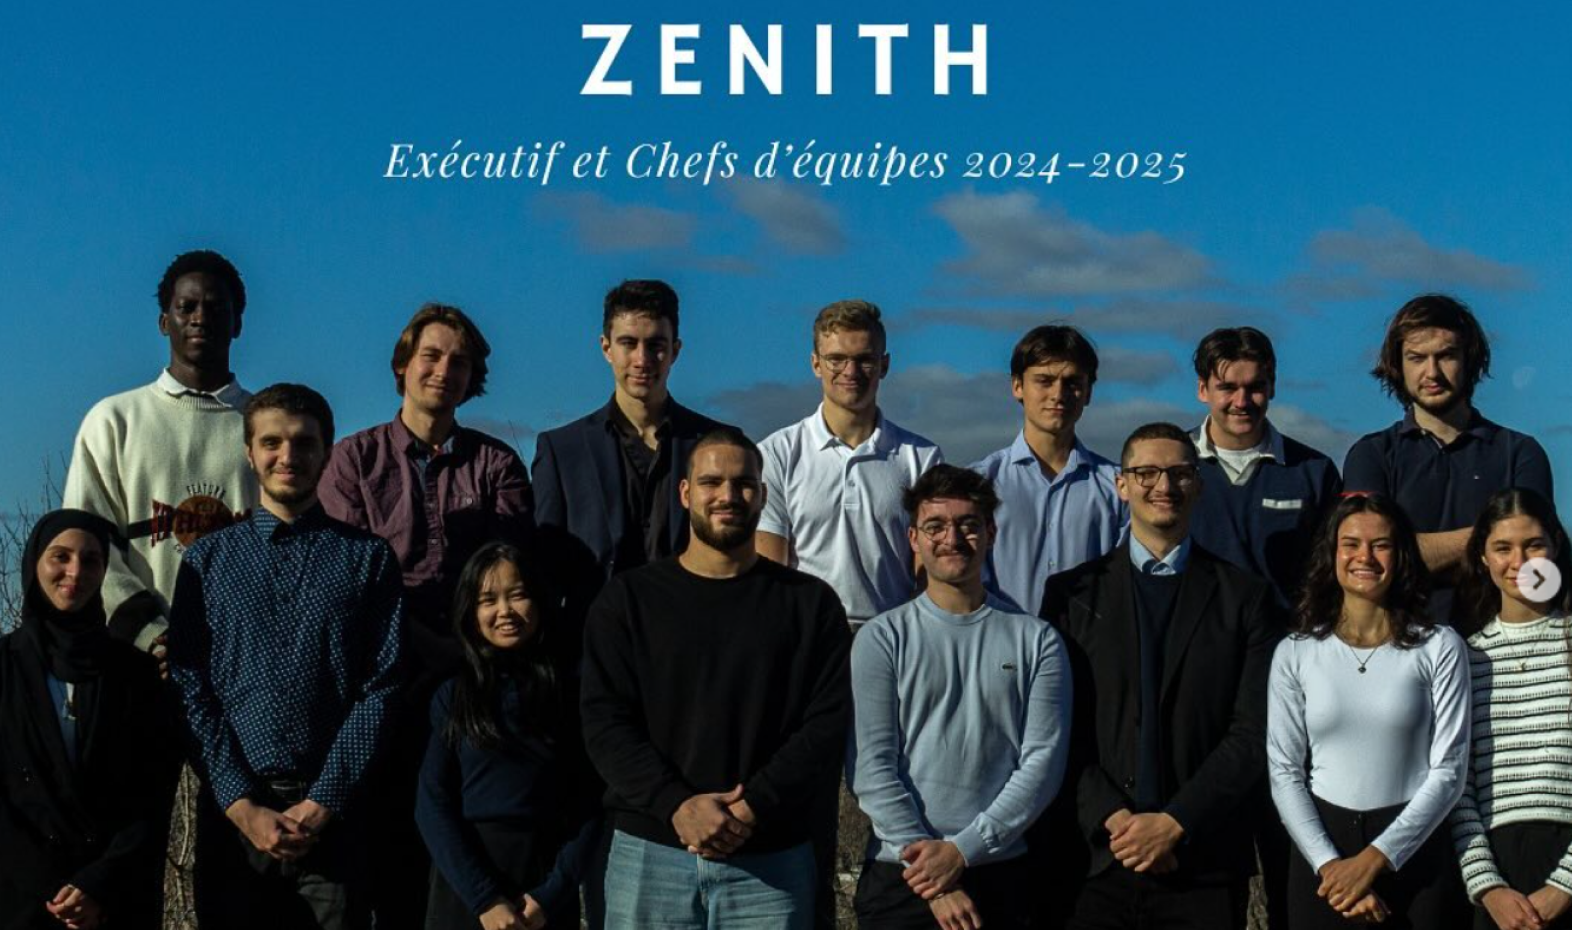
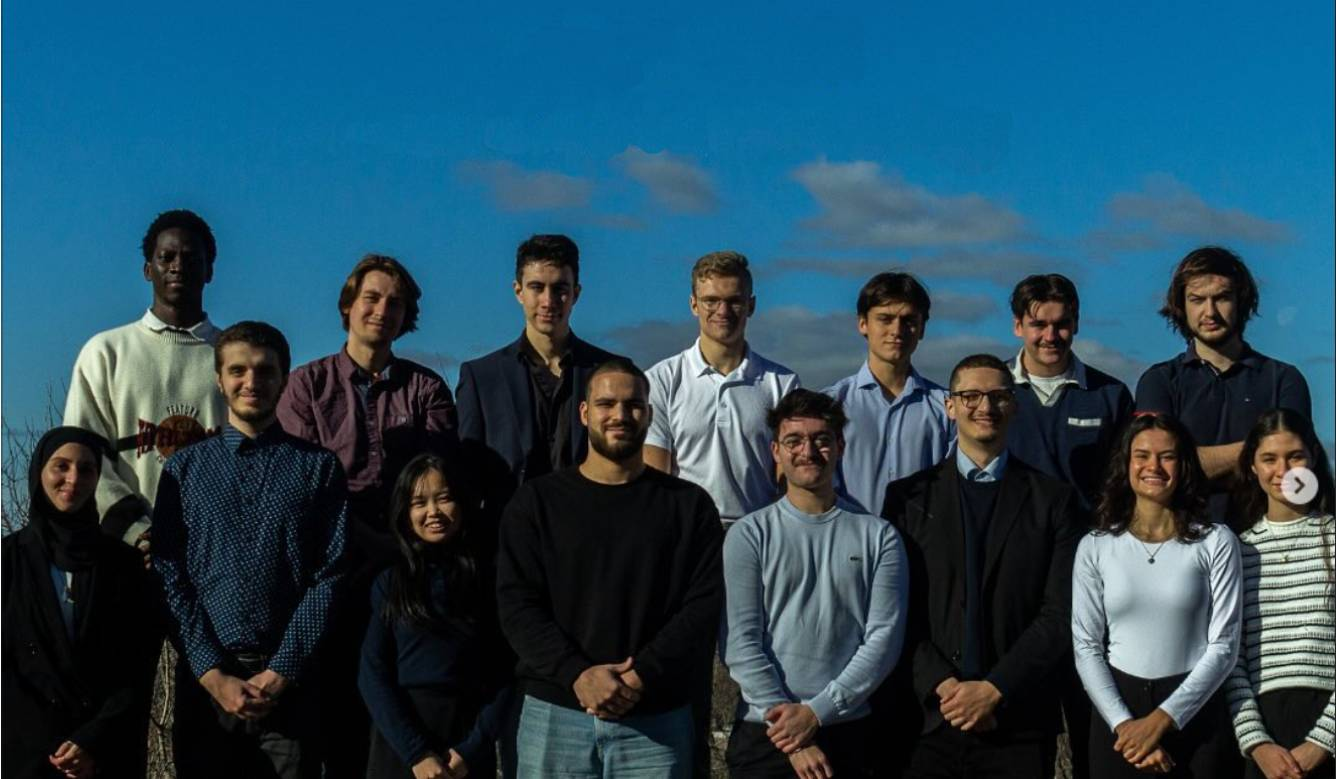
team start yay

diff --git a/src/app/pages/team/team.component.html b/src/app/pages/team/team.component.html
@@ -1,1 +1,81 @@
-<p>team works!</p>
+<div class="container">
+  <div class="header-team">
+    <h1>ZENITH</h1>
+    <p>Exécutif et Chefs d'équipes 2024-2025</p>
+  </div>
+
+  <div class="team-photo">
+    <img src="assets/team.png" alt="Photo d'équipe Zenith">
+  </div>
+
+  <!-- Co-directeurs section -->
+  <div class="roles-row">
+    <div class="role-section">
+      <div class="role-title co-directors orange-text">CO-DIRECTEURS</div>
+      <div class="member-names">Nom 1 ET Nom 2</div>
+      <div class="profile-pair">
+        <div class="profile-card">
+          <div class="profile-image">
+            <img src="assets/cd1.png" alt="Co-directeur 1">
+          </div>
+        </div>
+        <div class="profile-card">
+          <div class="profile-image">
+            <img src="assets/cd2.png" alt="Co-directeur 2">
+          </div>
+        </div>
+      </div>
+    </div>
+
+  <!-- Trésorier section -->
+    <div class="role-section">
+      <div class="role-title treasurer purple-text">TRÉSORIER</div>
+      <div class="member-names">Nom1</div>
+      <div class="profile-single">
+        <div class="profile-card">
+          <div class="profile-image">
+            <img src="assets/tres.png" alt="Trésorier">
+          </div>
+        </div>
+      </div>
+    </div>
+  </div>
+
+  <!-- VP-Communication section -->
+<div class="roles-row">
+    <div class="role-section">
+      <div class="role-title vp-communication lighter-blue-text">VP-COMMUNICATION</div>
+      <div class="member-names">Nom 1 ET Nom2</div>
+      <div class="profile-pair">
+        <div class="profile-card">
+          <div class="profile-image">
+            <img src="https://images.unsplash.com/photo-1438761681033-6461ffad8d80?w=200&h=250&fit=crop&crop=face" alt="VP-Communication 1">
+          </div>
+        </div>
+        <div class="profile-card">
+          <div class="profile-image">
+            <img src="https://images.unsplash.com/photo-1544005313-94ddf0286df2?w=200&h=250&fit=crop&crop=face" alt="VP-Communication 2">
+          </div>
+        </div>
+      </div>
+    </div>
+
+  <!-- Secrétaires section -->
+    <div class="role-section">
+      <div class="role-title secretaires dark-blue-text">SECRÉTAIRES GÉNÉRALES</div>
+      <div class="member-names">Nom 1 ET Nom 2</div>
+      <div class="profile-pair">
+        <div class="profile-card">
+          <div class="profile-image">
+            <img src="https://images.unsplash.com/photo-1489424731084-a5d8b219a5bb?w=200&h=250&fit=crop&crop=face" alt="Secrétaire 1">
+          </div>
+        </div>
+        <div class="profile-card">
+          <div class="profile-image">
+            <img src="https://images.unsplash.com/photo-1487412720507-e7ab37603c6f?w=200&h=250&fit=crop&crop=face" alt="Secrétaire 2">
+          </div>
+        </div>
+      </div>
+    </div>
+  </div>
+</div>

diff --git a/src/app/pages/team/team.component.css b/src/app/pages/team/team.component.css
@@ -1,0 +1,138 @@
+/* Zenith Team Page - Styles spécifiques */
+
+.container {
+  max-width: 1200px;
+  margin: 0 auto;
+  padding: 40px 20px;
+}
+
+.header-team {
+  text-align: center;
+  margin-bottom: 50px;
+}
+
+.header-team h1 {
+  font-size: 4rem;
+  font-weight: 300;
+  letter-spacing: 8px;
+  color: #2c5aa0;
+  margin-bottom: 10px;
+}
+
+.header-team p {
+  font-size: 1.1rem;
+  color: #666;
+  font-style: italic;
+}
+
+.team-photo {
+  width: 100%;
+  max-width: 800px;
+  height: 400px;
+  margin: 0 auto 60px;
+  border-radius: 15px;
+  overflow: hidden;
+  box-shadow: 0 10px 30px rgba(0,0,0,0.2);
+}
+
+.team-photo img {
+  width: 100%;
+  height: 100%;
+  object-fit: cover;
+}
+
+.roles-row {
+  display: flex;
+  justify-content: space-between;
+  align-items: flex-start;
+  gap: 50px;
+  margin-bottom: 60px;
+  max-width: 1000px;
+  margin-left: auto;
+  margin-right: auto;
+}
+
+.role-section {
+  text-align: center;
+  flex: 1;
+}
+
+.role-title {
+  font-size: 0.9rem;
+  text-transform: uppercase;
+  letter-spacing: 2px;
+  margin-bottom: 8px;
+  font-weight: 1000;
+}
+
+.member-names {
+  font-size: 1rem;
+  color: #555;
+  font-weight: 500;
+}
+
+.profile-pair {
+  display: flex;
+  justify-content: center;
+  gap: 30px;
+  margin-top: 20px;
+}
+
+.profile-single {
+  display: flex;
+  justify-content: center;
+  margin-top: 20px;
+}
+
+.profile-card {
+  text-align: center;
+}
+
+.profile-image {
+  width: 180px;
+  height: 240px;
+  border-radius: 15px;
+  overflow: hidden;
+  margin: 0 auto 15px;
+  box-shadow: 0 5px 15px rgba(0,0,0,0.1);
+  transition: transform 0.3s ease;
+}
+
+.profile-image:hover {
+  transform: translateY(-5px);
+}
+
+.profile-image img {
+  width: 100%;
+  height: 100%;
+  object-fit: cover;
+}
+
+.profile-name {
+  font-size: 0.9rem;
+  color: #666;
+  font-weight: 500;
+}
+
+/* Responsive design */
+@media (max-width: 768px) {
+  .header h1 {
+    font-size: 2.5rem;
+    letter-spacing: 4px;
+  }
+
+  .team-photo {
+    height: 250px;
+  }
+
+  .profile-pair {
+    flex-direction: column;
+    align-items: center;
+    gap: 20px;
+  }
+
+  .profile-image {
+    width: 150px;
+    height: 200px;
+  }
+}

diff --git a/src/app/pages/contact/contact.component.html b/src/app/pages/contact/contact.component.html
@@ -35,19 +35,19 @@
   </section>
 
   <section class="section section-requirements divider purple">
-    <h3 class="requirements-title">On recherche des étudiants :</h3>
+    <h3 class="requirements-title">On recherche des étudiant.e.s :</h3>
     <div class="requirements-grid">
       <div class="requirement-item">
-        <span class="requirement-text"><strong>Motivés</strong> à sortir de leur zone de confort</span>
+        <span class="requirement-text"><strong>Motivé.e.s</strong> à sortir de leur zone de confort</span>
       </div>
       <div class="requirement-item">
-        <span class="requirement-text"><strong>Curieux</strong> d'apprendre et de partager</span>
+        <span class="requirement-text"><strong>Curieux.ses</strong> d'apprendre et de partager</span>
       </div>
       <div class="requirement-item">
-        <span class="requirement-text"><strong>Exigeants</strong> envers eux-mêmes et l'équipe</span>
+        <span class="requirement-text"><strong>Exigeant.e.s</strong> envers eux-mêmes et l'équipe</span>
       </div>
       <div class="requirement-item">
-        <span class="requirement-text"><strong>Passionnés</strong> par les drones, l'aéro ou les tech de rupture</span>
+        <span class="requirement-text"><strong>Passionné.e.s</strong> par les drones, l'aéro ou les tech de rupture</span>
       </div>
     </div>
     <p class="requirements-title note">
@@ -58,13 +58,13 @@
 
   <section class="section section-cta cream">
     <div class="cta-content">
-      <h2 class="cta-title">Prêt à décoller avec nous ?</h2>
+      <h2 class="cta-title">Prêt.e à décoller avec nous ?</h2>
       <p class="cta-subtitle">
         Rejoins une équipe passionnée et contribue à l'avenir de l'aérospatial
       </p>
       <button class="text-roll" (click)="redirectToForm()">
-          <span class="text-container">Rejoindre l'Équipe</span>
-          <span class="text-clone">Rejoindre l'Équipe</span>
+          <span class="text-container">Rejoindre l'équipe</span>
+          <span class="text-clone">Rejoindre l'équipe</span>
       </button>
     </div>
   </section>

diff --git a/src/app/components/header/header.component.html b/src/app/components/header/header.component.html
@@ -1,9 +1,9 @@
 <div class="site-header" id="siteHeader">
   <div class="header-background">
       @if (route === '/join') {
-            <img src="assets/main1.png" alt="Header Background" class="" id="parallaxImage">
+            <img src="assets/back_hoodie.png" alt="Header Background" class="" id="parallaxImage">
       } @else if (route === '/team') {
-          <img src="assets/team.png" alt="Header Background" class="" id="parallaxImage">
+          <img src="assets/main1.png" alt="Header Background" class="" id="parallaxImage">
       } @else {
             <img src="assets/header.jpeg" alt="Header Background" class="" id="parallaxImage">
       }

diff --git a/src/styles.css b/src/styles.css
@@ -100,3 +100,15 @@ button.text-roll:hover .text-clone {
 .dark-blue {
   background-color: #091c2a;
 }
+
+.dark-blue-text {
+  color: #091c2a;
+}
+
+.orange-text {
+  color: #c55e3d;
+}
+
+.lighter-blue-text {
+  color: #0b5a95;
+}
